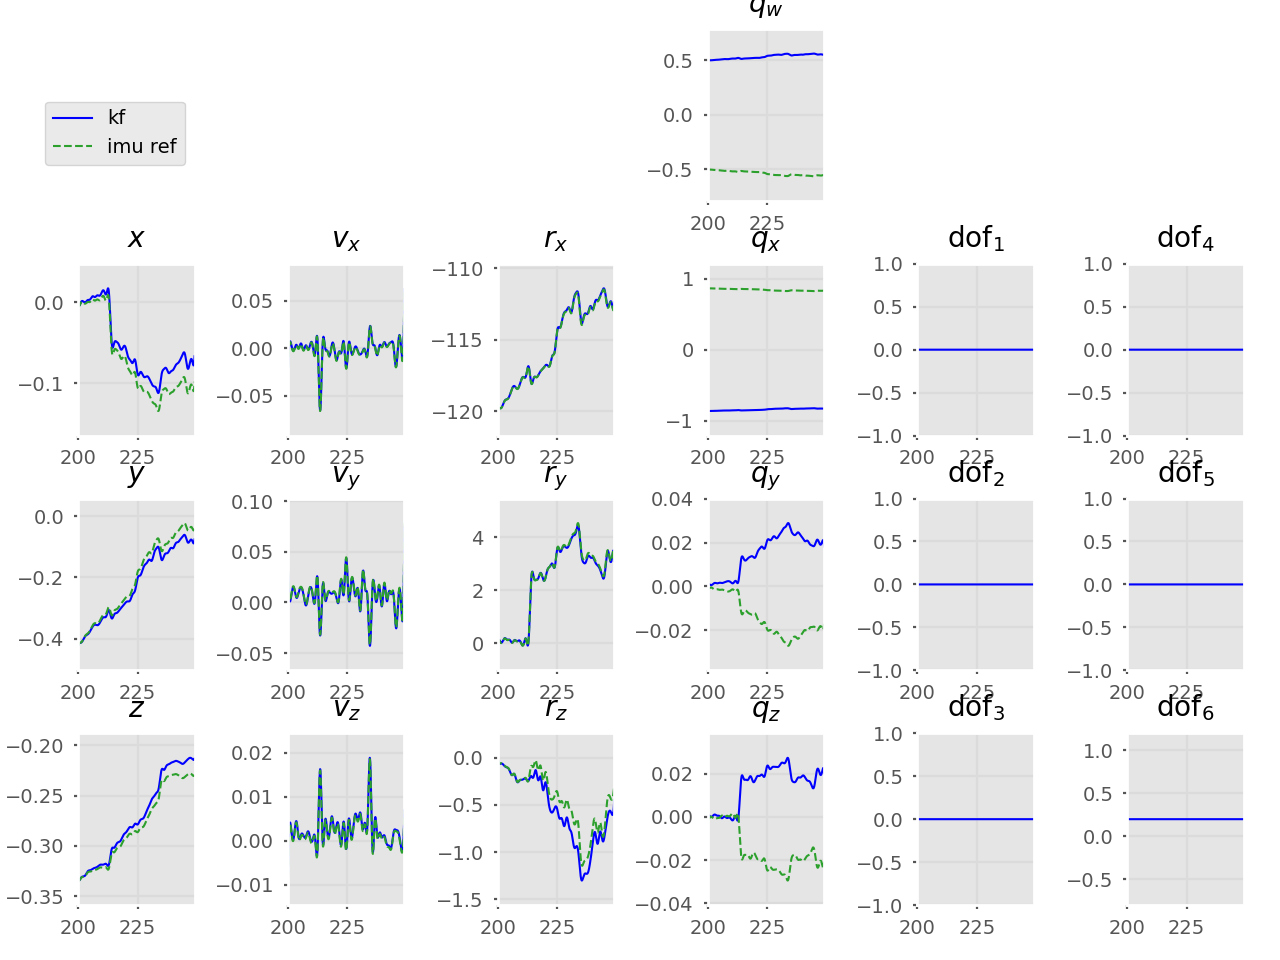
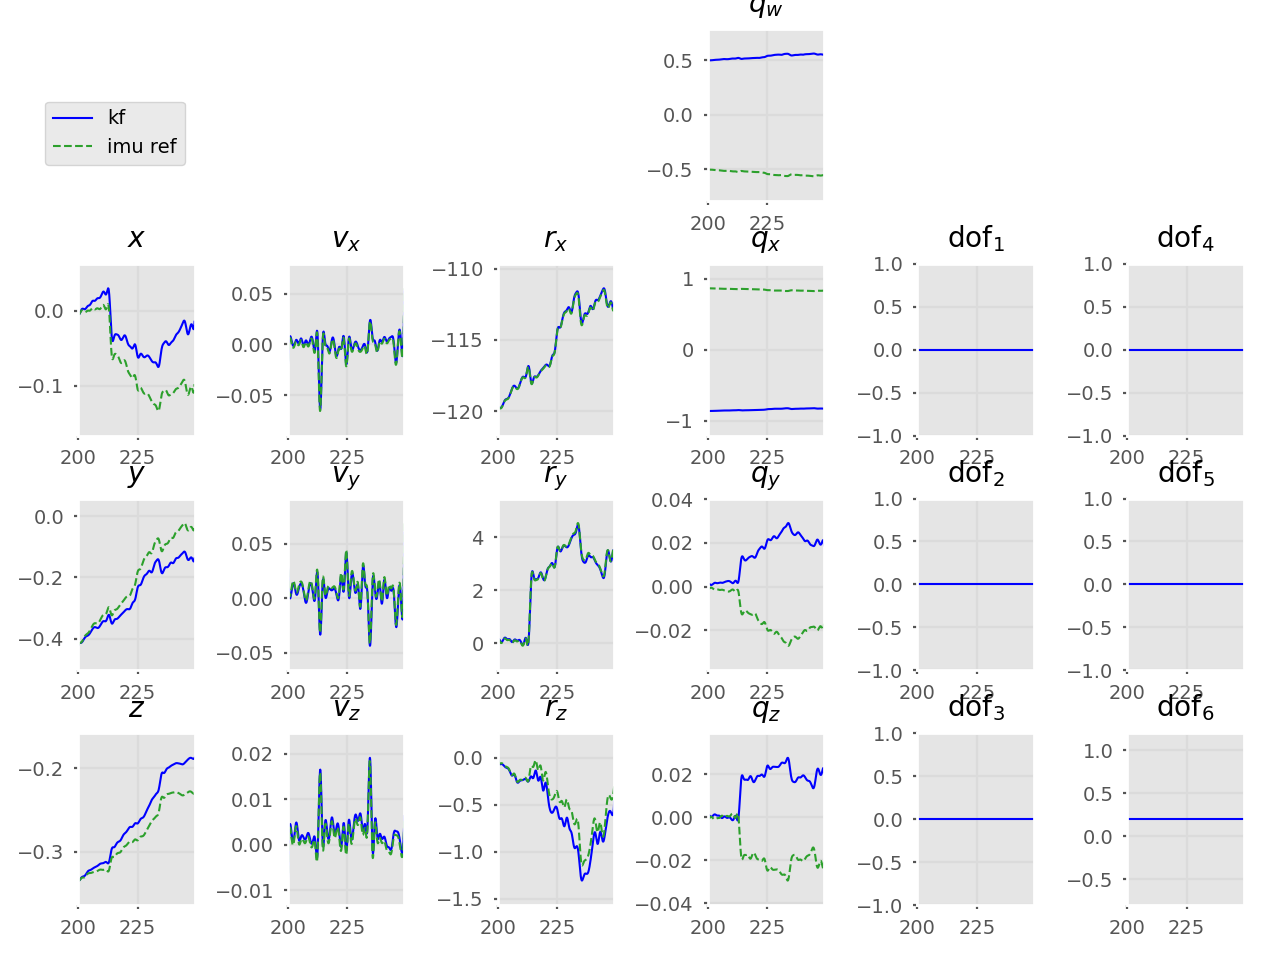
new traj file and imgs

diff --git a/generate_data.py b/generate_data.py
@@ -16,8 +16,8 @@ sym_probe = SymProbe(probe)
 # SLAM data
 # filepath_cam = './trajs/offline_mandala0_gt.txt' # stereo
 
-traj_name = 'mono'
-# traj_name = 'from_prop'
+# traj_name = 'mono'
+traj_name = 'from_prop'
 # traj_name = 'transx'
 
 if traj_name == 'mono':
